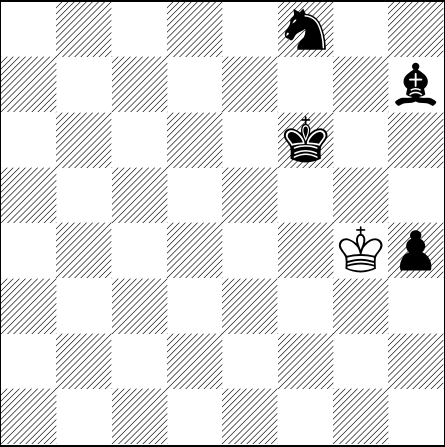
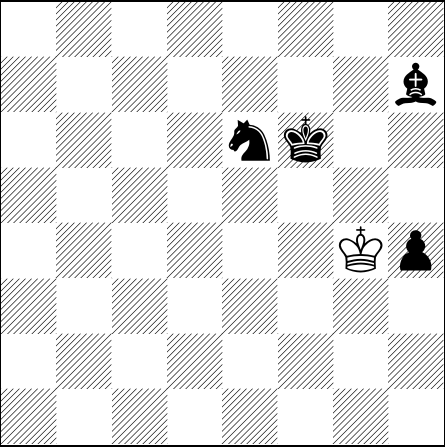
[automated] Regenerate text/pdf for chessboard

Changed region(s): [[0.4966, 0.2617, 0.6135, 0.3781], [0.6427, 0.0, 0.7303, 0.1163]]

diff --git a/default_filepath.tex b/default_filepath.tex
@@ -13,6 +13,6 @@
 \normalsize%
 \setchessboard{showmover=false}%
 \newgame%
-\fenboard{5n2/7b/5k2/8/6Kp/8/8/8 b - - 5 203}%
+\fenboard{8/7b/4nk2/8/6Kp/8/8/8 w - - 6 204}%
 \chessboard%
 \end{document}
